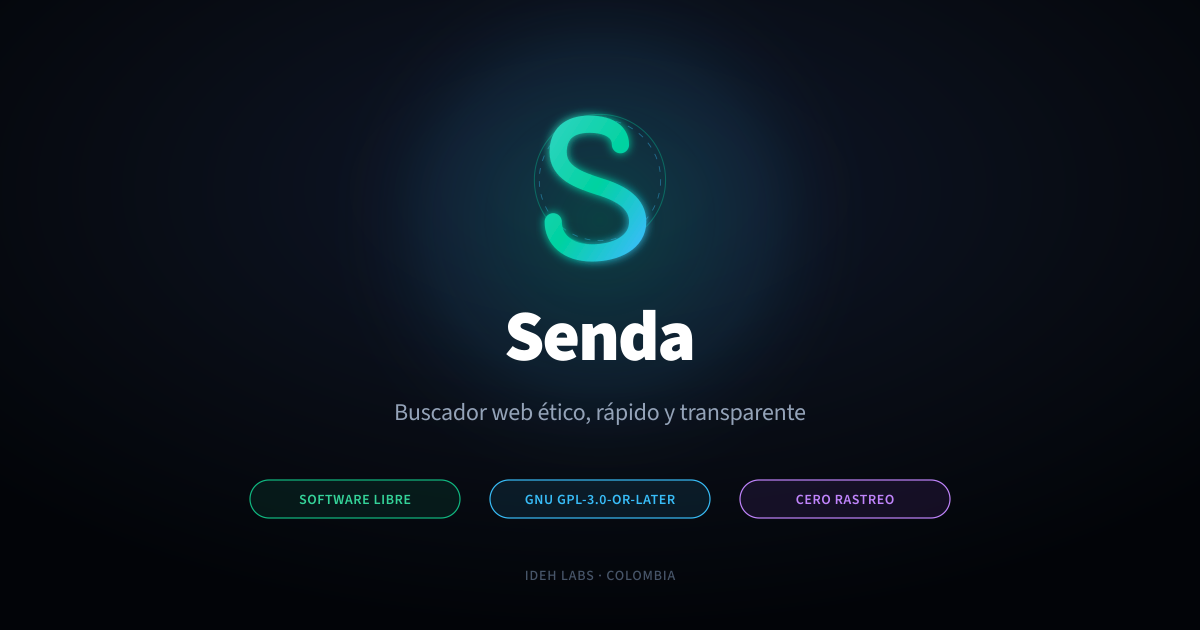
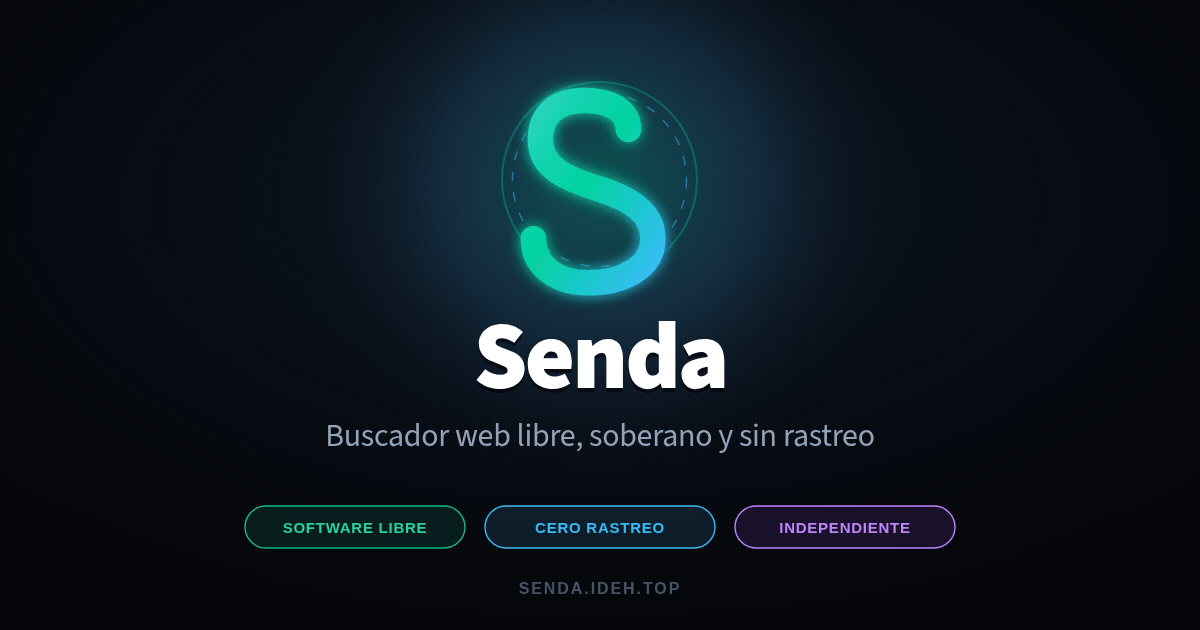
feat(branding): redesign Open Graph & social cards with prominent high-res Senda emblem and WhatsApp rich preview metadata

Changed region(s): [[0.2775, 0.1206, 0.74, 0.7238], [0.2158, 0.754, 0.8017, 0.8746], [0.4317, 0.9048, 0.5858, 0.9651]]

diff --git a/src/senda/ui/templates/base.html b/src/senda/ui/templates/base.html
@@ -4,7 +4,7 @@ SPDX-License-Identifier: GPL-3.0-or-later
 SPDX-FileCopyrightText: 2026 IDEH Labs <https://ideh.top>
 Senda — Free Software under GNU GPL-3.0-or-later
 -->
-<html lang="{{ lang | default('es') }}" data-theme="{{ theme | default('dark') }}" class="{{ 'light' if theme == 'light' else 'dark' }}">
+<html lang="{{ lang | default('es') }}" data-theme="{{ theme | default('dark') }}" class="{{ 'light' if theme == 'light' else 'dark' }}" prefix="og: https://ogp.me/ns# fb: https://ogp.me/ns/fb#">
 <head>
     <meta charset="utf-8">
     <meta name="viewport" content="width=device-width, initial-scale=1.0">
@@ -13,25 +13,40 @@ Senda — Free Software under GNU GPL-3.0-or-later
     <meta name="description" content="Senda — Buscador web libre, ético y sin rastreo.">
     <meta name="theme-color" content="#080c14">
     
-    <!-- Open Graph Protocol (WhatsApp / Telegram / Signal / Facebook) -->
+    <!-- Open Graph Protocol (WhatsApp / Telegram / Signal / Facebook / LinkedIn) -->
     <meta property="og:site_name" content="Senda">
     <meta property="og:type" content="website">
     <meta property="og:url" content="https://senda.ideh.top/">
-    <meta property="og:title" content="{% block og_title %}Senda — Buscador web libre, ético y sin rastreo{% endblock %}">
+    <meta property="og:title" content="{% block og_title %}{% set t = self.title() %}{{ t if t != 'Senda' else 'Senda — Buscador web libre, ético y sin rastreo' }}{% endblock %}">
     <meta property="og:description" content="{% block og_description %}Buscador web independiente y soberano. Sin rastreo, sin telemetría y sin burbujas de filtro.{% endblock %}">
     <meta property="og:image" content="https://senda.ideh.top/static/img/senda-og.png">
     <meta property="og:image:secure_url" content="https://senda.ideh.top/static/img/senda-og.png">
     <meta property="og:image:type" content="image/png">
     <meta property="og:image:width" content="1200">
     <meta property="og:image:height" content="630">
-    <meta property="og:image:alt" content="Senda Search Engine">
+    <meta property="og:image:alt" content="Logotipo oficial de Senda — Buscador web libre y soberano">
+    <meta property="og:image" content="https://senda.ideh.top/static/img/senda-og.jpg">
+    <meta property="og:image:secure_url" content="https://senda.ideh.top/static/img/senda-og.jpg">
+    <meta property="og:image:type" content="image/jpeg">
+    <meta property="og:image:width" content="1200">
+    <meta property="og:image:height" content="630">
 
-    <!-- Twitter / Mastodon Summary Cards -->
+    <!-- Microdata / Schema.org (Google & WhatsApp Android scraper) -->
+    <meta itemprop="name" content="{{ self.og_title() }}">
+    <meta itemprop="description" content="{{ self.og_description() }}">
+    <meta itemprop="image" content="https://senda.ideh.top/static/img/senda-og.png">
+
+    <!-- WhatsApp legacy image preview fallback -->
+    <link rel="image_src" href="https://senda.ideh.top/static/img/senda-og.png">
+
+    <!-- Twitter / X / Discord / Mastodon Large Summary Cards -->
     <meta name="twitter:card" content="summary_large_image">
-    <meta name="twitter:title" content="Senda — Buscador web libre, ético y sin rastreo">
-    <meta name="twitter:description" content="Buscador web independiente y soberano. Sin rastreo, sin telemetría y sin burbujas de filtro.">
+    <meta name="twitter:site" content="@SendaSearch">
+    <meta name="twitter:creator" content="@SendaSearch">
+    <meta name="twitter:title" content="{% block twitter_title %}{{ self.og_title() }}{% endblock %}">
+    <meta name="twitter:description" content="{% block twitter_description %}{{ self.og_description() }}{% endblock %}">
     <meta name="twitter:image" content="https://senda.ideh.top/static/img/senda-og.png">
-    <meta name="twitter:image:alt" content="Senda Search Engine">
+    <meta name="twitter:image:alt" content="Logotipo oficial de Senda — Buscador web libre y soberano">
 
     <link rel="icon" type="image/svg+xml" href="/static/img/favicon.svg">
     <link rel="icon" type="image/png" sizes="32x32" href="/static/img/favicon.png">

diff --git a/src/senda/ui/templates/results.html b/src/senda/ui/templates/results.html
@@ -1,6 +1,7 @@
 {% extends "base.html" %}
 
 {% block title %}{{ query }} — Senda{% endblock %}
+{% block og_description %}{{ tr.results_count | default('Resultados') }} para «{{ query }}» en Senda — Buscador web libre y soberano.{% endblock %}
 
 {% block content %}
 <div class="results-layout" id="resultsLayout">

diff --git a/tests/test_api.py b/tests/test_api.py
@@ -181,6 +181,22 @@ def test_api_brand_assets_and_manifest(client):
     r_og = client.get("/static/img/senda-og.png")
     assert r_og.status_code == 200
     assert r_og.headers.get("content-type") == "image/png"
+    assert len(r_og.content) > 10000
+
+    r_og_jpg = client.get("/static/img/senda-og.jpg")
+    assert r_og_jpg.status_code == 200
+    assert "image/jpeg" in r_og_jpg.headers.get("content-type", "")
+    assert len(r_og_jpg.content) > 5000
+
+    # Verify Open Graph & Twitter Cards meta tags on homepage
+    r_home = client.get("/")
+    assert r_home.status_code == 200
+    assert 'prefix="og: https://ogp.me/ns#' in r_home.text
+    assert 'property="og:image" content="https://senda.ideh.top/static/img/senda-og.png"' in r_home.text
+    assert 'property="og:image" content="https://senda.ideh.top/static/img/senda-og.jpg"' in r_home.text
+    assert 'name="twitter:card" content="summary_large_image"' in r_home.text
+    assert 'name="twitter:image" content="https://senda.ideh.top/static/img/senda-og.png"' in r_home.text
+    assert 'rel="image_src"' in r_home.text
 
 
 def test_theme_toggle_zero_js_and_cookie(client):
